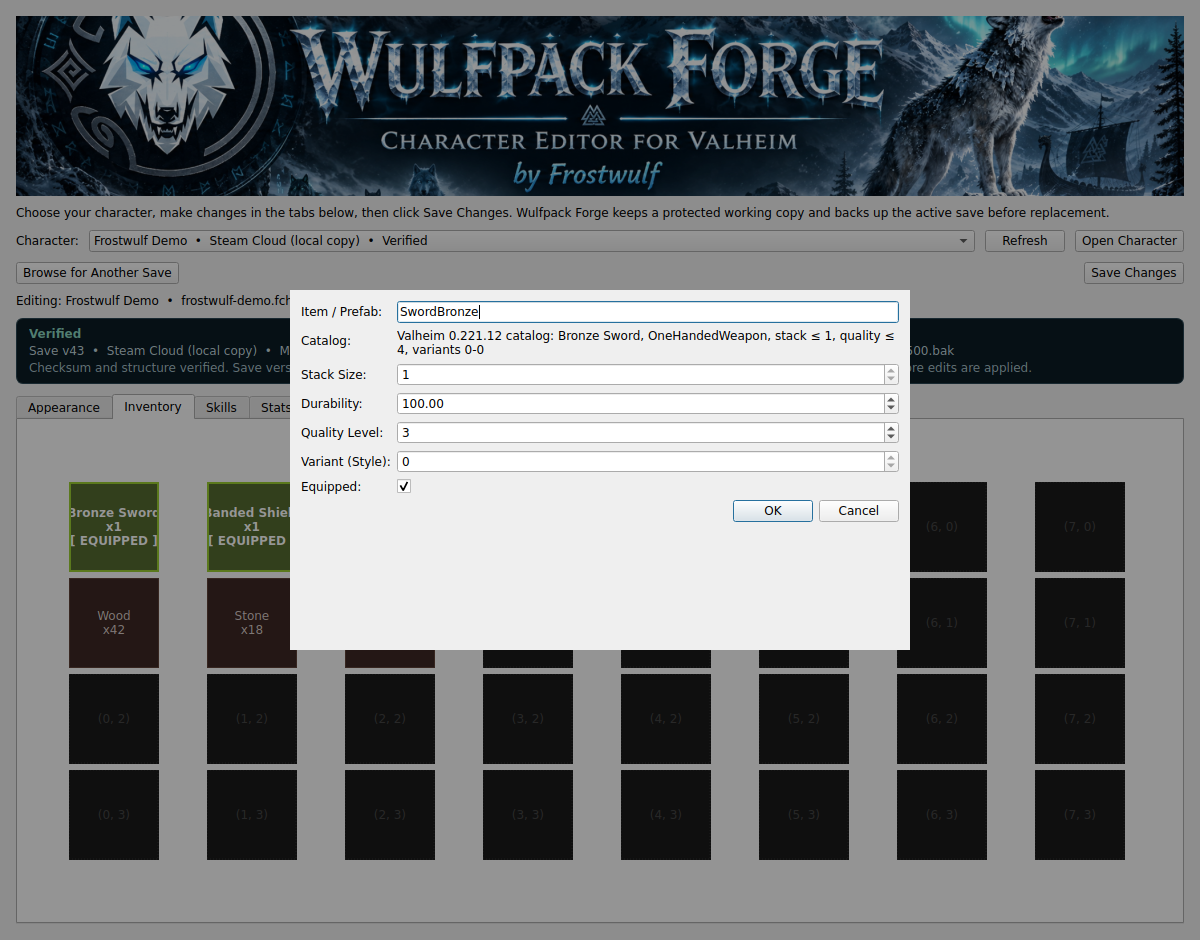
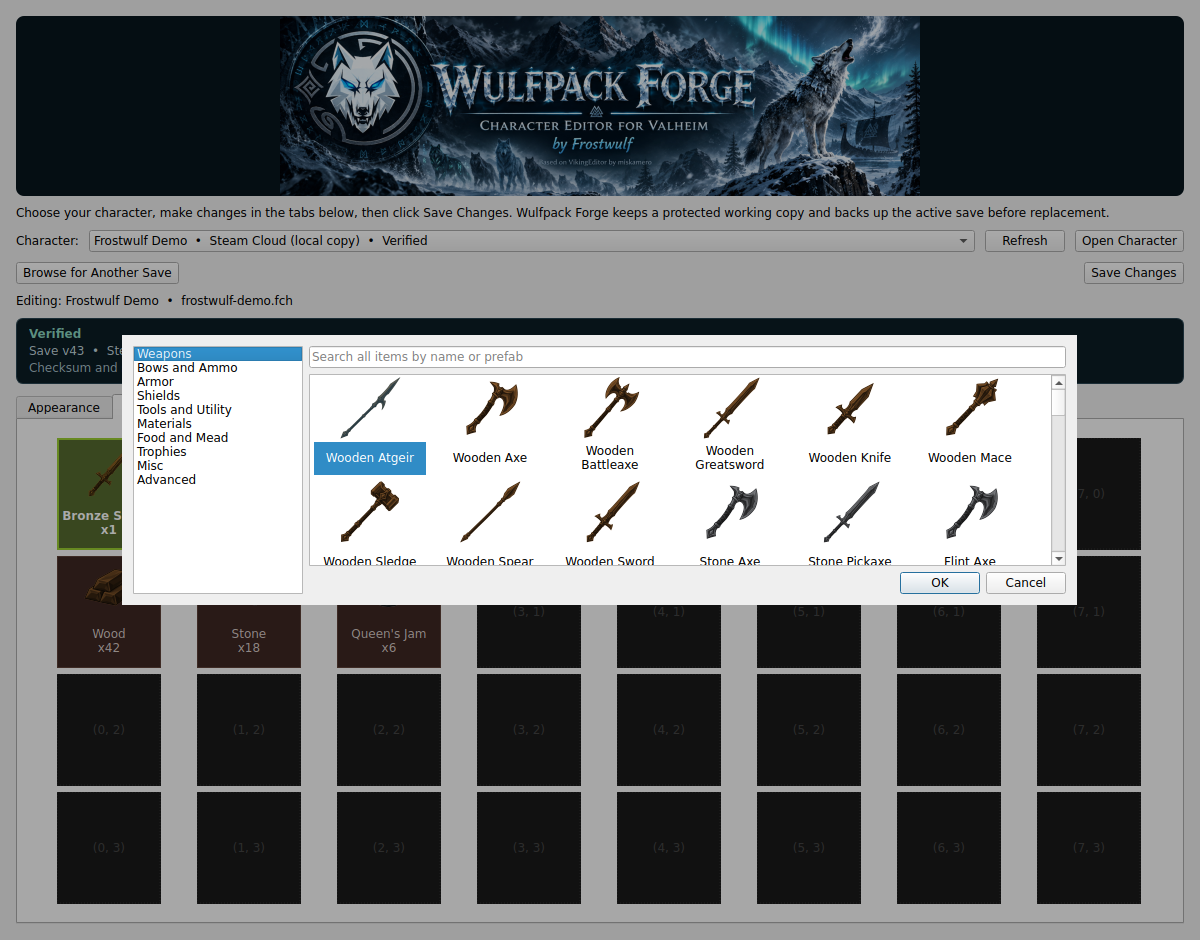
Add original in-app inventory glyph masters

diff --git a/ui/inventorySlot.py b/ui/inventorySlot.py
@@ -1,12 +1,12 @@
-from PySide6.QtCore import QSize
+from PySide6.QtCore import QSize, Qt
 from PySide6.QtGui import QIcon
-from PySide6.QtWidgets import QPushButton
+from PySide6.QtWidgets import QToolButton
 
 from data.items import resolve_item
 from ui.glyphs import item_icon
 
 
-class InventorySlot(QPushButton):
+class InventorySlot(QToolButton):
     """A visual representation of a single Valheim inventory grid tile."""
 
     def __init__(self, x, y, parent=None):
@@ -14,7 +14,9 @@ class InventorySlot(QPushButton):
         self.grid_x = x
         self.grid_y = y
         self.item_data = None
-        self.setFixedSize(90, 90)
+        self.setFixedSize(104, 112)
+        self.setToolButtonStyle(Qt.ToolButtonTextUnderIcon)
+        self.setIconSize(QSize(56, 56))
         self.update_visuals()
 
     def set_item(self, item_data):
@@ -37,12 +39,14 @@ class InventorySlot(QPushButton):
                 else prefab.replace("$item_", "").replace("_", " ").title()
             )
 
-            equipped_marker = "\n[ EQUIPPED ]" if is_equipped else ""
-            self.setIcon(item_icon(prefab, 40))
-            self.setIconSize(QSize(40, 40))
-            self.setText(f"{display_name}\nx{stack}{equipped_marker}")
+            self.setIcon(item_icon(prefab, 56))
+            self.setText(f"{display_name}\nx{stack}")
+            state = "equipped" if is_equipped else "not equipped"
+            self.setAccessibleName(f"{display_name}, stack {stack}, {state}")
             self.setToolTip(
                 f"Prefab: {prefab}\n"
+                f"Item: {display_name}\n"
+                f"Equipped: {'Yes' if is_equipped else 'No'}\n"
                 f"Quality: {self.item_data.get('quality', 1)}\n"
                 f"Variant: {self.item_data.get('variant', 0)}"
             )
@@ -59,6 +63,7 @@ class InventorySlot(QPushButton):
         else:
             self.setIcon(QIcon())
             self.setText(f"({self.grid_x}, {self.grid_y})")
+            self.setAccessibleName(f"Empty inventory slot {self.grid_x}, {self.grid_y}")
             self.setToolTip("Empty inventory slot")
             self.setStyleSheet(
                 "background-color: #1a1a1a; color: #444444; border: 1px dashed #333333;"

diff --git a/ui/glyphs.py b/ui/glyphs.py
@@ -3,13 +3,14 @@ from pathlib import Path
 from typing import Dict, Optional, Tuple, Union
 
 from PySide6.QtCore import QRectF, Qt
-from PySide6.QtGui import QColor, QFont, QIcon, QPainter, QPixmap
+from PySide6.QtGui import QColor, QFont, QIcon, QImageReader, QPainter, QPixmap
 
-from data.glyphs import GLYPH_MASTER_DIR, TINTS, glyph_for
+from data.glyphs import GLYPH_IDS, GLYPH_MASTER_DIR, TINTS, glyph_for
 from data.items import ItemDefinition, resolve_item
 from ui.branding import resource_path
 
 _CACHE: Dict[Tuple[str, str, int], QPixmap] = {}
+GLYPH_MASTER_SIZE = 512
 
 
 def clear_cache() -> None:
@@ -83,3 +84,26 @@ def item_pixmap(target: Union[str, ItemDefinition], size: int = 64) -> QPixmap:
 
 def item_icon(target: Union[str, ItemDefinition], size: int = 64) -> QIcon:
     return QIcon(item_pixmap(target, size))
+
+
+def glyph_bundle_is_usable() -> bool:
+    """Check objective runtime requirements without pretending CI can judge art."""
+    if len(GLYPH_IDS) != 23 or len(set(GLYPH_IDS)) != 23:
+        return False
+
+    for glyph_id in GLYPH_IDS:
+        path = master_dir() / f"{glyph_id}.png"
+        if not path.is_file():
+            return False
+        reader = QImageReader(str(path))
+        if not reader.canRead():
+            return False
+        image = reader.read()
+        if (
+            image.isNull()
+            or image.width() != GLYPH_MASTER_SIZE
+            or image.height() != GLYPH_MASTER_SIZE
+            or not image.hasAlphaChannel()
+        ):
+            return False
+    return True

diff --git a/ui/itemEditDialog.py b/ui/itemEditDialog.py
@@ -13,6 +13,7 @@ from PySide6.QtWidgets import (
 )
 
 from data.items import CATALOG_GAME_VERSION, completion_labels, resolve_item
+from ui.glyphs import item_pixmap
 
 
 class ItemEditDialog(QDialog):
@@ -41,6 +42,11 @@ class ItemEditDialog(QDialog):
         self.catalog_status = QLabel()
         self.catalog_status.setWordWrap(True)
 
+        self.glyph_preview = QLabel()
+        self.glyph_preview.setFixedSize(80, 80)
+        self.glyph_preview.setAlignment(Qt.AlignCenter)
+        self.glyph_preview.setAccessibleName("Inventory item preview")
+
         stack_value = int(item_data.get("stack", 1))
         quality_value = int(item_data.get("quality", 1))
         variant_value = int(item_data.get("variant", 0))
@@ -66,6 +72,7 @@ class ItemEditDialog(QDialog):
         self.equipped_input.setChecked(item_data.get("equipped", False))
 
         layout.addRow("Item / Prefab:", self.prefab_input)
+        layout.addRow("Preview:", self.glyph_preview)
         layout.addRow("Catalog:", self.catalog_status)
         layout.addRow("Stack Size:", self.stack_input)
         layout.addRow("Durability:", self.durability_input)
@@ -100,6 +107,7 @@ class ItemEditDialog(QDialog):
     def _apply_catalog_constraints(self, preserve_existing=True):
         raw_value = self.prefab_input.text().strip()
         item = resolve_item(raw_value)
+        self.glyph_preview.setPixmap(item_pixmap(raw_value, 72))
         version_label = f"Valheim {CATALOG_GAME_VERSION}" if CATALOG_GAME_VERSION else "bundled"
 
         if not item:

diff --git a/main.py b/main.py
@@ -18,13 +18,19 @@ def _verify_brand_bundle() -> bool:
     return banner_is_usable()
 
 
+def _verify_glyph_bundle() -> bool:
+    from ui.glyphs import glyph_bundle_is_usable
+
+    return glyph_bundle_is_usable()
+
+
 def main():
     app = QApplication(sys.argv)
     app.setWindowIcon(app_icon())
     window = MainWindow()
 
     if "--smoke-test" in sys.argv:
-        if not (_verify_catalog_bundle() and _verify_brand_bundle()):
+        if not (_verify_catalog_bundle() and _verify_brand_bundle() and _verify_glyph_bundle()):
             window.close()
             return 2
         window.show()

diff --git a/data/glyphs.py b/data/glyphs.py
@@ -11,6 +11,14 @@ GLYPH_MASTER_DIR = "assets/glyphs/items"
 DEFAULT_GLYPH = "G20_ingot"
 DEFAULT_TINT = "slate"
 
+GLYPH_IDS = (
+    "G01_sword", "G02_axe", "G03_mace", "G04_knife", "G05_spear",
+    "G06_greatsword", "G07_battleaxe", "G08_polearm", "G09_sledge",
+    "G10_staff", "G11_bow", "G12_crossbow", "G13_arrow", "G14_shield",
+    "G15_helmet", "G16_chest", "G17_legs", "G18_cape", "G19_trinket",
+    "G20_ingot", "G21_food", "G22_trophy", "G23_torch",
+)
+
 TINTS = {
     "slate": "#7d7f83",
     "wood": "#8a5a2b",

diff --git a/tests/test_glyphs.py b/tests/test_glyphs.py
@@ -66,6 +66,9 @@ class GlyphRenderTests(unittest.TestCase):
     def test_item_icon_is_not_null(self):
         self.assertFalse(ui_glyphs.item_icon("Wood").isNull())
 
+    def test_all_item_masters_are_decodable_transparent_runtime_assets(self):
+        self.assertTrue(ui_glyphs.glyph_bundle_is_usable())
+
 
 if __name__ == "__main__":
     unittest.main()

diff --git a/README.md b/README.md
@@ -46,21 +46,21 @@ Appearance controls use readable choices and color previews, so changing a model
 
 ![Wulfpack Forge Appearance tab showing synthetic character customization controls](docs/screenshots/appearance.png)
 
-Inventory editing combines the familiar character grid with searchable catalog guidance, known stack and quality limits, and a raw-prefab path for modded or newer items.
+Inventory editing combines the familiar character grid with original item-category glyphs, material tinting, searchable catalog guidance, known stack and quality limits, and a raw-prefab path for modded or newer items.
 
-![Wulfpack Forge Inventory tab showing synthetic items and the catalog-aware Bronze Sword editor](docs/screenshots/inventory.png)
+![Wulfpack Forge Inventory tab showing synthetic items and the categorised, searchable item picker with original glyph art](docs/screenshots/inventory.png)
 
 ## What Wulfpack Forge can edit
 
 | Area | Capabilities |
 |---|---|
 | Appearance | Skin color, hair color, beard color, hair style, beard style, and supported model settings |
-| Inventory | Categorised item picker (Weapons, Bows and Ammo, Armor, Shields, Tools, Materials, Food and Mead, Trophies, Misc) with search and icons, raw prefab entry for modded items, stacks, durability, quality, variants, equipped state |
+| Inventory | Categorised item picker with search and original tinted glyphs, raw prefab entry for modded items, stacks, durability, quality, variants, equipped state |
 | Skills | Supported Valheim skill levels |
 | Stats | Supported health, stamina, progression, and related character values |
 | Character details | Supported character-level fields such as name |
 
-Known vanilla items use human-readable names while retaining their prefab IDs. Unknown, modded, or newer-version items are preserved rather than rejected simply because the bundled catalog does not recognize them.
+Known vanilla items use human-readable names and an appropriate original silhouette while retaining their prefab IDs. Unknown, modded, or newer-version items are preserved and receive a neutral fallback glyph rather than being rejected simply because the bundled catalog does not recognize them.
 
 ## Character discovery and Steam Cloud
 
@@ -195,7 +195,7 @@ The repository uses PyInstaller to produce a self-contained Windows executable. 
 - installs application dependencies;
 - runs the automated test suite;
 - builds `WulfpackForge.exe`;
-- bundles the versioned item catalog and canonical Wulfpack Forge banner;
+- bundles the versioned item catalog, canonical Wulfpack Forge banner, and original inventory glyph masters;
 - smoke-tests the packaged executable and required assets;
 - creates a Windows ZIP package;
 - generates SHA-256 checksums;
@@ -216,6 +216,7 @@ Automated coverage currently includes:
 - item catalog generation and version drift;
 - catalog resolution and duplicate-name behavior;
 - unknown/modded item preservation;
+- inventory glyph mapping, fallback, tinting, decoding, and transparency;
 - offscreen Qt widget behavior;
 - Wulfpack Forge branding identity and decodable runtime asset validation;
 - Python source compilation;

diff --git a/ARCHITECTURE.md b/ARCHITECTURE.md
@@ -45,7 +45,7 @@ Owns the player-facing desktop experience.
 - `mainWindow.py` coordinates discovery, loading, workspace creation, editing, health state, and saving.
 - `saveStatusWidget.py` renders compact verification and compatibility state.
 - `branding.py` resolves Wulfpack Forge product metadata and bundled assets.
-- `itemPickerDialog.py` presents the catalog as curated categories (`data/item_groups.py`) with an icon grid and search; `glyphs.py` renders icons from original glyph masters under `assets/glyphs/items/` (resolved by `data/glyphs.py`) or draws placeholders when no master exists.
+- `itemPickerDialog.py` presents the catalog as curated categories (`data/item_groups.py`) with an icon grid and search; `glyphs.py` renders, tints, caches, and validates original inventory glyph masters under `assets/glyphs/items/`, with safe fallback behavior resolved by `data/glyphs.py`.
 - editor tabs own their respective user controls and data mapping.
 
 The UI should not bypass the workspace or save-safety layer.
@@ -121,6 +121,7 @@ Separates discoverability metadata from write policy.
 
 - `valheim_items.json` is generated, versioned item metadata.
 - `items.py` loads catalog data and owns curated safety constraints/resolution behavior.
+- `glyphs.py` maps prefab/category metadata to presentation-only silhouettes and material tints.
 
 A catalog refresh must not silently alter write constraints.
 
@@ -191,8 +192,9 @@ The bundle includes:
 - Python application/runtime code;
 - `data/valheim_items.json`;
 - `assets/wulfpack-forge-banner.jpg`.
+- `assets/glyphs/items/` with 23 original inventory masters.
 
-The packaged smoke test verifies that critical generated and branding assets can be resolved from the PyInstaller runtime environment. Branding validation also enforces a README-scale quality floor for the canonical banner.
+The packaged smoke test verifies that critical generated, branding, and glyph assets can be resolved and decoded from the PyInstaller runtime environment. It checks objective runtime properties, not subjective art quality.
 
 ## Compatibility boundary
 

diff --git a/docs/IMAGE_GEN_INDEX.md b/docs/IMAGE_GEN_INDEX.md
@@ -1,5 +1,10 @@
 # Image Generation Index (original glyph set)
 
+## Implementation status
+
+- **Complete:** all 23 inventory glyph masters are approved, bundled under `assets/glyphs/items/`, mapped in `data/glyphs.py`, and rendered with material tinting in the Inventory grid and item editor.
+- **Backlog:** 38 hairstyle thumbnails and 27 beard thumbnails. The current Appearance tab remains text-and-color based until those original assets and their UI integration receive a separate review.
+
 Lists every original image the bundled glyph set needs so the batch can be generated in one pass. Nothing here derives from Iron Gate art; each glyph depicts the concept, in one consistent house style, and is keyed on data the item catalog already carries (`item_type`) plus a material tint inferred from the prefab name. See `docs/BRAND_GUIDE.md` for the product palette this extends.
 
 ## Prompt template (paste into the image generator, one glyph per request)
@@ -83,7 +88,7 @@ One silhouette per entry in `data/beards.py` (22 named styles plus "No beard"), 
 
 ## Output manifest
 
-Generated files land in a local, git-excluded folder until the style is approved, then move to `assets/glyphs/` as original bundled art:
+Approved files move to `assets/glyphs/` as original bundled art. Work in progress stays outside the runtime asset tree:
 
 ```
 assets/glyphs/items/G01_sword.png ... G23_torch.png   (masters, 512x512, untinted grey)
@@ -91,4 +96,4 @@ assets/glyphs/hair/Hair1.png ... Hair37.png, nohair.png
 assets/glyphs/beard/Beard1.png ... Beard26.png, nobeard.png
 ```
 
-The app maps prefab -> (glyph, tint) with a small rules table in `data/glyphs.py` and tints at load time.
+The app maps prefab -> (glyph, tint) with a small rules table in `data/glyphs.py` and tints at load time. The inventory masters are complete; the hair and beard paths above are reserved for the remaining appearance-art tranche.

diff --git a/CHANGELOG.md b/CHANGELOG.md
@@ -13,7 +13,9 @@ The project is currently evolving toward its first branded Wulfpack Forge releas
 - The `fchUtil.py` command-line `unpack` mode works again.
 
 ### Added
-- A categorised item picker for adding inventory items: curated groups on the left, an icon grid with search on the right, and an Advanced tab for raw modded prefabs. Inventory slots now show item icons. Icons are drawn placeholders until the original glyph set lands in `assets/glyphs/items/`, at which point the art is used automatically.
+- A categorised item picker for adding inventory items: curated groups on the left, an icon grid with search on the right, and an Advanced tab for raw modded prefabs.
+- An original 23-piece in-app inventory glyph set with item-aware silhouettes, runtime material tinting, a neutral unknown-item fallback, and a live preview in the item editor.
+- Objective runtime and packaged-smoke validation for the complete inventory glyph bundle, plus committed SHA-256 asset hashes.
 - The Frostwulf mark as the application icon: window and taskbar icon in the running app, and the packaged executable's icon (`assets/FrostWulf-favicon.png`, with `assets/wulfpack-forge.ico` generated by `tools/make_app_icon.py`).
 - A one-file Windows source launcher that creates a private Python environment, installs pinned dependencies when needed, and starts Wulfpack Forge.
 - Managed Wulfpack Forge character workspaces outside the Valheim save tree.

diff --git a/docs/BRAND_GUIDE.md b/docs/BRAND_GUIDE.md
@@ -52,6 +52,19 @@ Rules:
 - provide a text fallback if the image cannot be loaded;
 - keep the visual treatment restrained enough that this remains a utility, not a game launcher.
 
+### In-app inventory glyphs
+
+Canonical inventory masters live in `assets/glyphs/items/`. They are original 512×512 transparent grayscale artwork, selected by item shape and catalog type, then tinted at runtime using the material palette in `data/glyphs.py`.
+
+- keep silhouettes readable at the 56 px Inventory size and the 32 px design floor;
+- preserve transparent backgrounds, one dark outline, and top-left two-tone lighting;
+- use the neutral generic-material glyph for unknown items rather than blocking or rewriting them;
+- keep item-art decisions strictly presentational;
+- record approved asset hashes in `assets/glyphs/SHA256SUMS`;
+- do not substitute extracted Valheim art, official logos, or VikingEditor branding.
+
+Hair and beard thumbnails remain a separate backlog in `docs/IMAGE_GEN_INDEX.md`; their reserved paths are not runtime requirements yet.
+
 ## UI direction
 
 Preferred visual language:

diff --git a/assets/glyphs/README.md b/assets/glyphs/README.md
@@ -1,0 +1,9 @@
+# Wulfpack Forge in-app glyphs
+
+The item masters in `items/` are original Wulfpack Forge artwork created for the desktop application. They are not extracted, traced, or adapted from Valheim or VikingEditor assets.
+
+Each master is a 512×512 transparent grayscale PNG. The application selects a silhouette from the bundled item metadata and applies a restrained material tint at runtime. Unknown or modded prefab IDs receive a neutral generic-material glyph; glyph selection never changes the stored prefab or any save data.
+
+Runtime smoke validation checks that all 23 required files are present, uniquely named, decodable, 512×512, and alpha-capable. Visual legibility remains a human-review responsibility and was checked at the 56 px application size and at the 32 px design target.
+
+The approved generation prompts and the remaining appearance-thumbnail backlog are recorded in `docs/IMAGE_GEN_INDEX.md`. File integrity hashes are recorded in `SHA256SUMS`.
